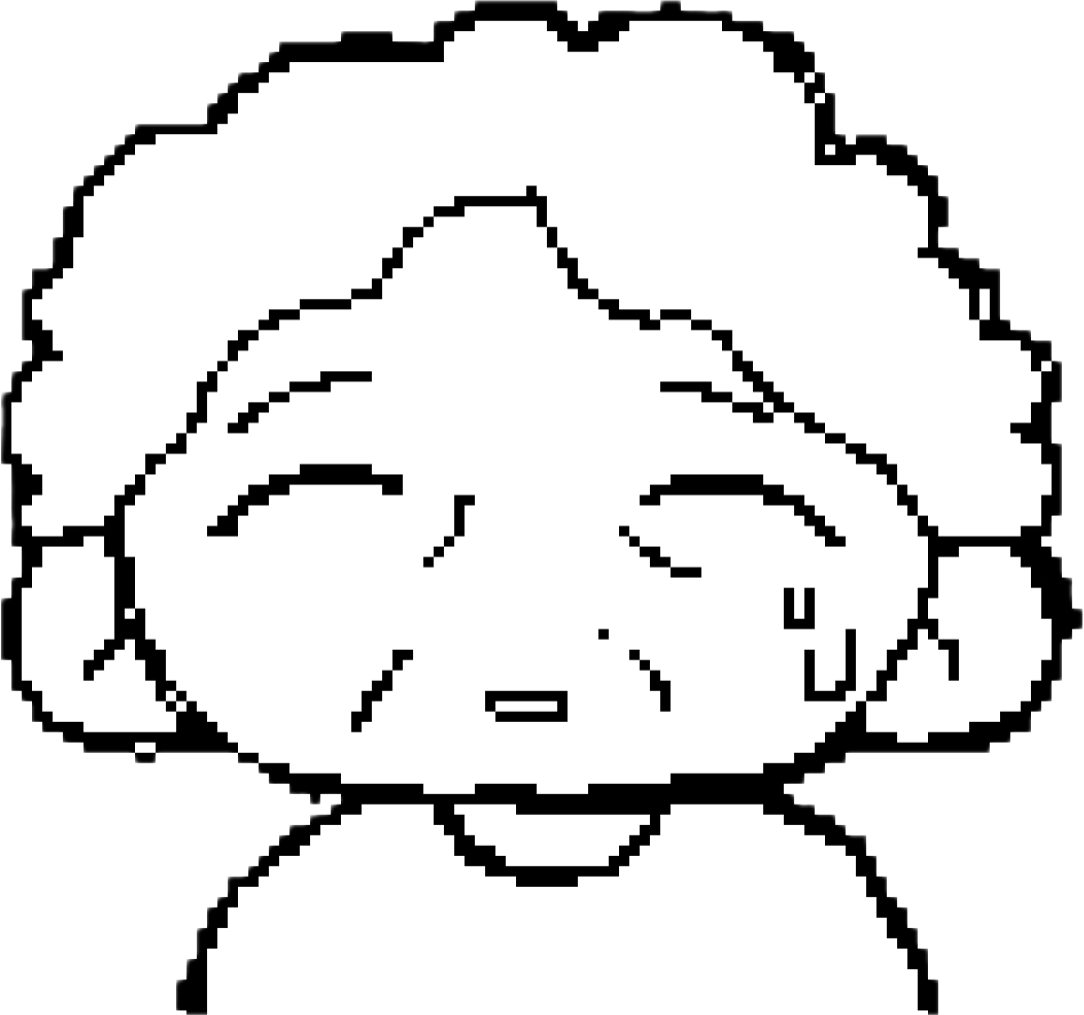
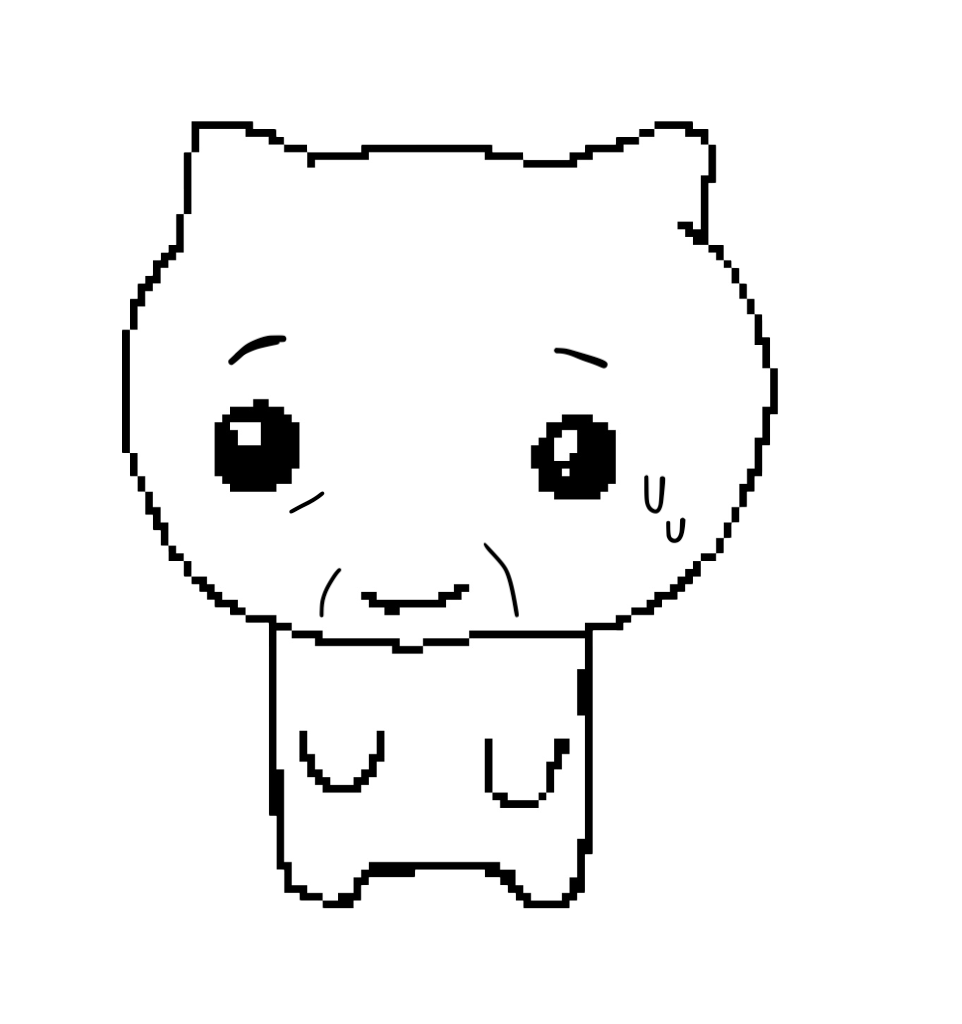
script edit

diff --git a/app.js b/app.js
@@ -660,11 +660,11 @@ document.addEventListener('click', (e) => {
 
 // --- Simulation Game Logic ---
 const simScript = [
-  { id: 'start', speaker: '', text: '저기...', onEnter: (ui) => ui.hideChar() },
-  { id: 's2', speaker: '할머니', text: '나 좀 도와줄 수 있는가...?', onEnter: (ui) => ui.showChar() },
-  { id: 's3', speaker: '할머니', text: '내가 잘 몰라가지고.. 입론을 할 수가 없네...' },
+  { id: 'start', speaker: '', text: '냐...(저기...)', onEnter: (ui) => ui.hideChar() },
+  { id: 's2', speaker: '할머니', text: '냐, 냐냐...?(나 좀 도와줄 수 있는가...?)', onEnter: (ui) => ui.showChar() },
+  { id: 's3', speaker: '할머니', text: '냐냐냥... 냐냐...(내가 글을 잘 몰라가지고.. 손주를 도와줄 수가 없네...)' },
   {
-    id: 'choice1', speaker: '할머니', text: '내가 잘 몰라가지고.. 입론을 할 수가 없네...',
+    id: 'choice1', speaker: '할머니', text: '냐냐냥... 냐냐...(내가 글을 잘 몰라가지고.. 손주를 도와줄 수가 없네...)',
     choices: [
       { text: '도와준다', next: 'help1' },
       { text: '거절한다', next: 'reject1' }
@@ -672,31 +672,31 @@ const simScript = [
   },
 
   // 도와준다 path
-  { id: 'help1', speaker: '나', text: '네! 그럼요' },
-  { id: 'help2', speaker: '할머니', text: '여기.. (쪽지를 내민다)', next: 'open_note' },
+  { id: 'help1', speaker: '나', text: '네!' },
+  { id: 'help2', speaker: '할머니', text: '냐...(저기, 글이 많이 올라가면 좋다는데.. 할미가 글도 틀리고 그러면 애가 부끄럽잖아...)(쪽지를 내민다)', next: 'open_note' },
 
   // 거절한다 path
   { id: 'reject1', speaker: '나', text: '...제가 왜요?' },
-  { id: 'reject2', speaker: '할머니', text: '손주가 부탁한 건데 한 번 읽어만 봐줄 수 있을까? (쪽지를 내민다)', next: 'open_note' },
+  { id: 'reject2', speaker: '할머니', text: '냐냐........냐?(저기, 글이 많이 올라가면 좋다는데.. 할미가 글도 틀리고 그러면 애가 부끄럽잖아... 한 번 읽어만 봐줄 수 있을까?)(쪽지를 내민다)', next: 'open_note' },
 
   // Note interaction
   { id: 'open_note', speaker: '', text: '(쪽지가 펼쳐진다)', onEnter: (ui) => ui.showNote() },
   {
     id: 'choice2', speaker: '', text: '(쪽지 내용을 읽었다)',
     choices: [
-      { text: '입론을 돕는다', next: 'help_construct' },
+      { text: '할머니를 돕는다', next: 'help_construct' },
       { text: '내 갈 길을 간다', next: 'go_my_way' }
     ]
   },
 
-  // 입론을 돕는다
-  { id: 'help_construct', speaker: '나', text: '제대로 적어서 제출해드려야겠다!' }, // don't hide note yet
-  { id: 'help_construct2', speaker: '할머니', text: '정말 고마워... 학생 없었으면 큰일날 뻔 했어..' },
-  { id: 'typing_phase', speaker: '', text: '(할머니의 쪽지를 올바른 맞춤법으로 고쳐 적어 제출하자.)', onEnter: (ui) => ui.showTypeUI() },
+  // 할머니를 돕는다
+  { id: 'help_construct', speaker: '나', text: '틀린 부분이 있네. 맞춤법을 고쳐서 올려드려야겠다!' }, // don't hide note yet
+  { id: 'help_construct2', speaker: '할머니', text: '냐냐냥... 냐냐...(정말 고마워... 학생 없었으면 큰일날 뻔 했어. 애가 아주 좋아할 거여.)' },
+  { id: 'typing_phase', speaker: '', text: '(할머니의 쪽지를 올바른 맞춤법으로 고쳐 적자.)', onEnter: (ui) => ui.showTypeUI() },
 
   // 내 갈 길을 간다
-  { id: 'go_my_way', speaker: '나', text: '아 좀 가시라구요!', onEnter: (ui) => ui.hideNote() },
-  { id: 'go_my_way2', speaker: '할머니', text: '내가 잘 몰라서.. 미안혀... 조심히 가요..' },
+  { id: 'go_my_way', speaker: '나', text: '아 귀찮게... 가세요. 자기 일은 자기가 알아서 해야지...', onEnter: (ui) => ui.hideNote() },
+  { id: 'go_my_way2', speaker: '할머니', text: '냐냐냥..... 냥냥.(내가 잘 몰라서.. 미안혀... 조심히 가요.)' },
   { id: 'drop_note', speaker: '', text: '(쪽지가 바닥에 떨어진다)', onEnter: (ui) => ui.dropNote(), next: 'choice3' },
 
   {